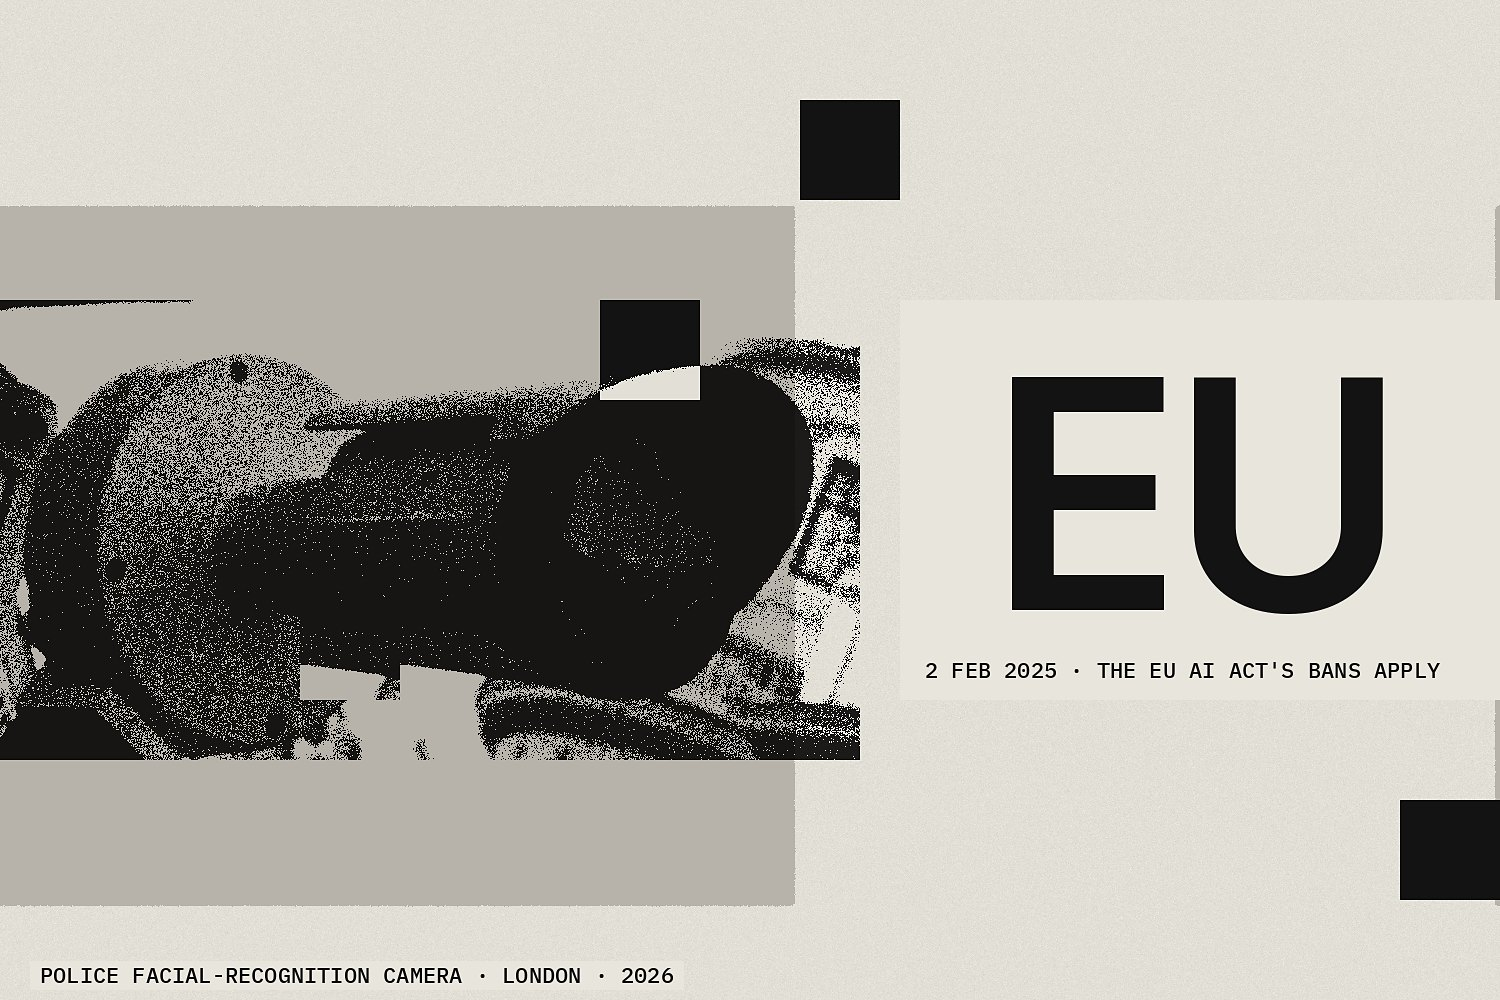
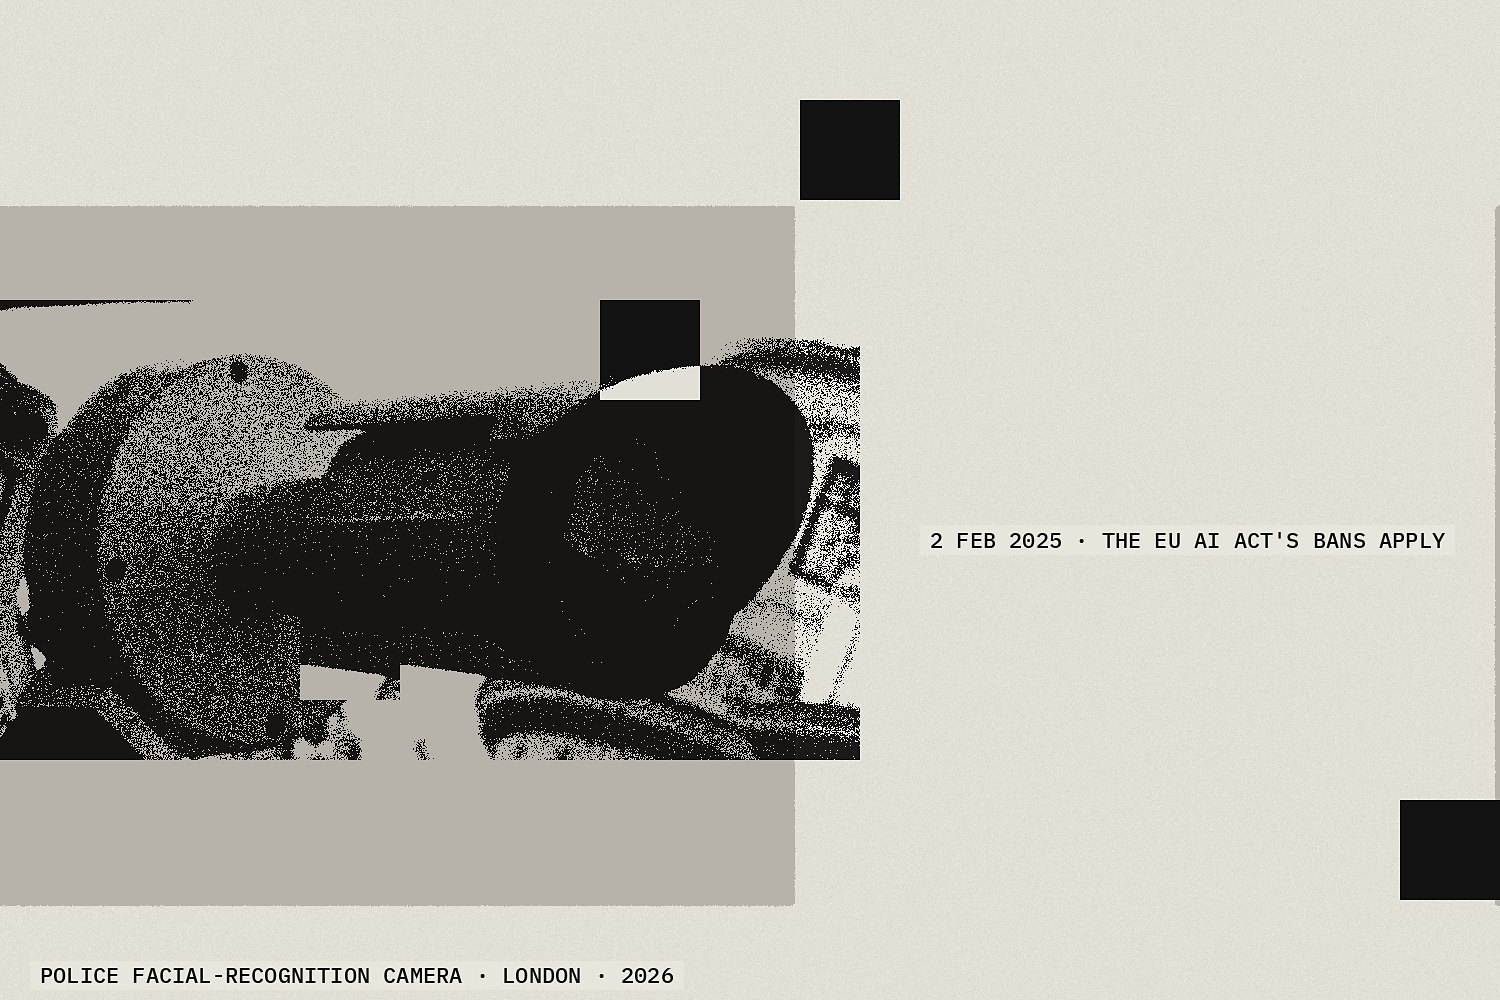
Abundance and Rights and dignity collages without big type; their facts move to labels beside the object
Claude-Session: https://claude.ai/code/session_01Sc1pzyhKsrC3mM6v1oVhk6

diff --git a/scripts/collages.py b/scripts/collages.py
@@ -159,8 +159,7 @@ SPECS = [
          fields=[(0, 0, 8, 9)], black=[(8, 0, 1, 2), (14, 3, 1, 1)],
          fragments=[dict(img='electricity-meter.jpg', box=(760, 760), crop=(0.04, 0.06, 0.96, 0.86), how='screen', level=0.5, at=(40, 60))],
          shift=[(3, 3, 2, 2, 1, 0), (6, 1, 1, 2, 0, 1)], invert=[(1, 6, 1, 1)],
-         type=[dict(slab=(8, 5, 7, 4), parts=[('0', 330, 860, 520), ('kWh', 150, 1080, 690)])],
-         labels=[('1954 · "TOO CHEAP TO METER" · LEWIS STRAUSS', 820, 930), ('AN ELECTRICITY METER', 40, 960)]),
+         labels=[('1954 · "TOO CHEAP TO METER" · LEWIS STRAUSS', 830, 222), ('AN ELECTRICITY METER', 40, 960)]),
     dict(id='collage-power', size=THEME, colour=GREY, seed=89,
          fields=[(0, 0, 9, 8)], black=[(12, 0, 1, 1), (14, 7, 1, 1)],
          fragments=[dict(img='gpu-h100.jpg', box=(1080, 723), crop=(0.065, 0.13, 0.775, 0.945), how='screen', level=0.55, detail=3, blur=0.5, at=(40, 80))],
@@ -181,8 +180,7 @@ SPECS = [
          fields=[(0, 2, 8, 7)], black=[(8, 1, 1, 1), (14, 8, 1, 1)],
          fragments=[dict(img='facial-recognition-camera.jpg', box=(860, 460), crop=(0.23, 0.69, 0.79, 0.90), channel='B', how='screen', level=0.42, at=(0, 300))],
          shift=[(3, 6, 1, 1, -1, 0)], invert=[(6, 3, 1, 1)],
-         type=[dict(slab=(9, 3, 6, 4), parts=[('EU', 320, 995, 300)])],
-         labels=[("2 FEB 2025 · THE EU AI ACT'S BANS APPLY", 925, 655), ('POLICE FACIAL-RECOGNITION CAMERA · LONDON · 2026', 40, 960)]),
+         labels=[("2 FEB 2025 · THE EU AI ACT'S BANS APPLY", 930, 525), ('POLICE FACIAL-RECOGNITION CAMERA · LONDON · 2026', 40, 960)]),
     dict(id='collage-self-determination', size=THEME, colour=GREY, seed=610,
          fields=[(0, 3, 6, 7), (11, 0, 4, 4)], black=[(6, 8, 1, 2), (14, 6, 1, 1)],
          fragments=[dict(img='kleroterion.jpg', box=(1200, 790), how='screen', level=0.47, at=(150, 100))],

diff --git a/WORKPLAN.md b/WORKPLAN.md
@@ -42,7 +42,7 @@ Every session starts here: find the first stage that is not done, do the next pi
 ## Log
 
 - 2026-11-20: Collage set made for all 13 cards; Abundance rebuilt around an electricity meter (batch 3, 1 image, CC BY-SA 4.0).
-- 2026-11-20: Site named Made Minds (owner). Power and Rights and dignity collages rebuilt around objects (batch 4: four NVIDIA H100 cards, CC BY 3.0; a London police facial-recognition camera, CC BY-SA 4.0). Then, at the owner's request, fewer big numbers: Power is the chips alone (label: the 2022 US licence for H100 sales to China); Rights and dignity shows EU.
+- 2026-11-20: Site named Made Minds (owner). Power and Rights and dignity collages rebuilt around objects (batch 4: four NVIDIA H100 cards, CC BY 3.0; a London police facial-recognition camera, CC BY-SA 4.0). Then, at the owner's request, fewer big numbers: Power is the chips alone (label: the 2022 US licence for H100 sales to China); Rights and dignity shows EU. Then no big type on Abundance or Rights and dignity either: type stays only where it comes from another time than the object (2045, 10²⁵, e/acc, BUILD).
 - 2026-11-20: Image batch 2 (3 card images) downloaded; every ism card now has an image. Home grid rows aligned.
 - 2026-11-20: Transhumanism checked and merged; every ism and theme is now checked.
 - 2026-11-20: Owner approved going public: repository public, GitHub Pages live from `gh-pages` (noindex for now).
